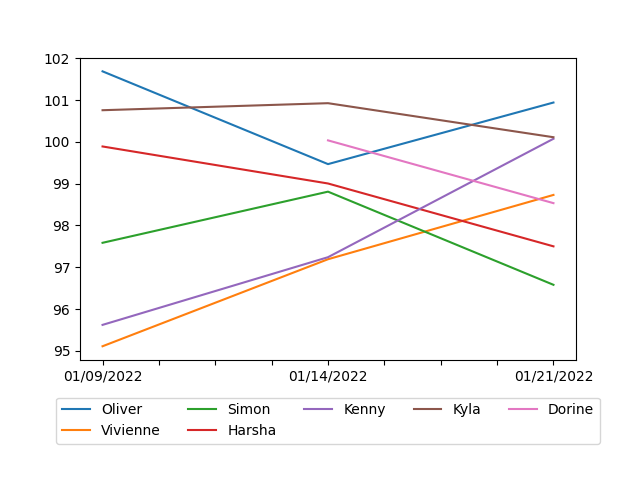
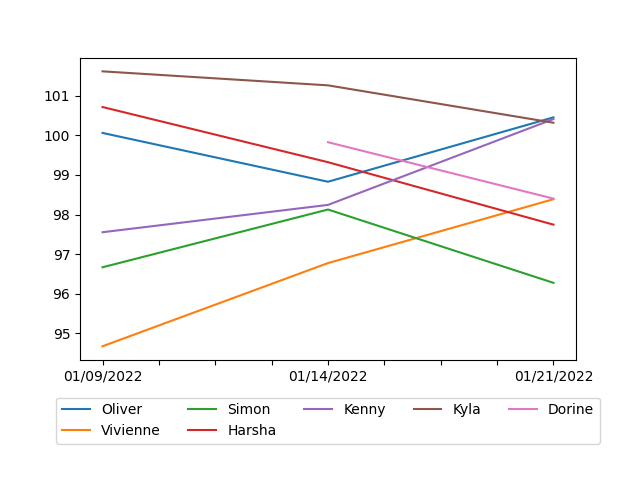
update rankings

diff --git a/README.md b/README.md
@@ -5,18 +5,18 @@
 
 | Player | ELO | Wins | Losses | Win % | Best Game |
 | --- | --- | --- | --- | --- | --- |
-| Oliver | 100.94 | 12 | 6 | 0.67 | Codenames |
-| Kyla | 100.11 | 10 | 6 | 0.62 | Codenames |
-| Kenny | 100.07 | 8 | 6 | 0.57 | Codenames |
-| Vivienne | 98.73 | 8 | 10 | 0.44 | Wavelength |
-| Dorine | 98.53 | 6 | 6 | 0.50 | 7 Wonders |
-| Harsha | 97.50 | 7 | 11 | 0.39 | Coup |
-| Simon | 96.58 | 5 | 12 | 0.29 | Secret Hitler |
-| Dan | 96.52 | 2 | 4 | 0.33 | Wavelength |
-| Nancy | 95.21 | 2 | 4 | 0.33 | Secret Hitler |
-| Nicholas | 95.10 | 1 | 2 | 0.33 | Wavelength |
-| Wing | 94.09 | 1 | 4 | 0.20 | Wavelength |
-| Bella | 94.09 | 1 | 4 | 0.20 | Wavelength |
+| Oliver | 100.45 | 12 | 7 | 0.63 | Bang |
+| Kenny | 100.41 | 9 | 6 | 0.60 | Codenames |
+| Kyla | 100.32 | 11 | 6 | 0.65 | Codenames |
+| Dorine | 98.40 | 6 | 6 | 0.50 | 7 Wonders |
+| Vivienne | 98.39 | 8 | 11 | 0.42 | Wavelength |
+| Harsha | 97.75 | 8 | 11 | 0.42 | Coup |
+| Dan | 96.38 | 2 | 4 | 0.33 | Wavelength |
+| Simon | 96.28 | 5 | 13 | 0.28 | Secret Hitler |
+| Nicholas | 94.90 | 1 | 2 | 0.33 | Wavelength |
+| Nancy | 94.72 | 2 | 5 | 0.29 | Secret Hitler |
+| Wing | 93.90 | 1 | 4 | 0.20 | Wavelength |
+| Bella | 93.90 | 1 | 4 | 0.20 | Wavelength |
 
 ### Rankings over Time
 ![Image](rankings.png)
@@ -54,13 +54,13 @@
 
 | Player | ELO | Wins | Losses | Win % |
 | --- | --- | --- | --- | --- |
-| Kyla | 110.38  | 1 | 0 | 1.00 |
-| Oliver | 110.38  | 1 | 0 | 1.00 |
-| Kenny | 110.38  | 1 | 0 | 1.00 |
-| Harsha | 92.21  | 0 | 1 | 0.00 |
-| Nancy | 92.21  | 0 | 1 | 0.00 |
-| Simon | 92.21  | 0 | 1 | 0.00 |
-| Vivienne | 92.21  | 0 | 1 | 0.00 |
+| Kenny | 110.57  | 2 | 0 | 1.00 |
+| Kyla | 110.57  | 2 | 0 | 1.00 |
+| Oliver | 102.94  | 1 | 1 | 0.50 |
+| Harsha | 99.29  | 1 | 1 | 0.50 |
+| Nancy | 91.97  | 0 | 2 | 0.00 |
+| Vivienne | 91.97  | 0 | 2 | 0.00 |
+| Simon | 91.97  | 0 | 2 | 0.00 |
 
 ### 7 Wonders
 
